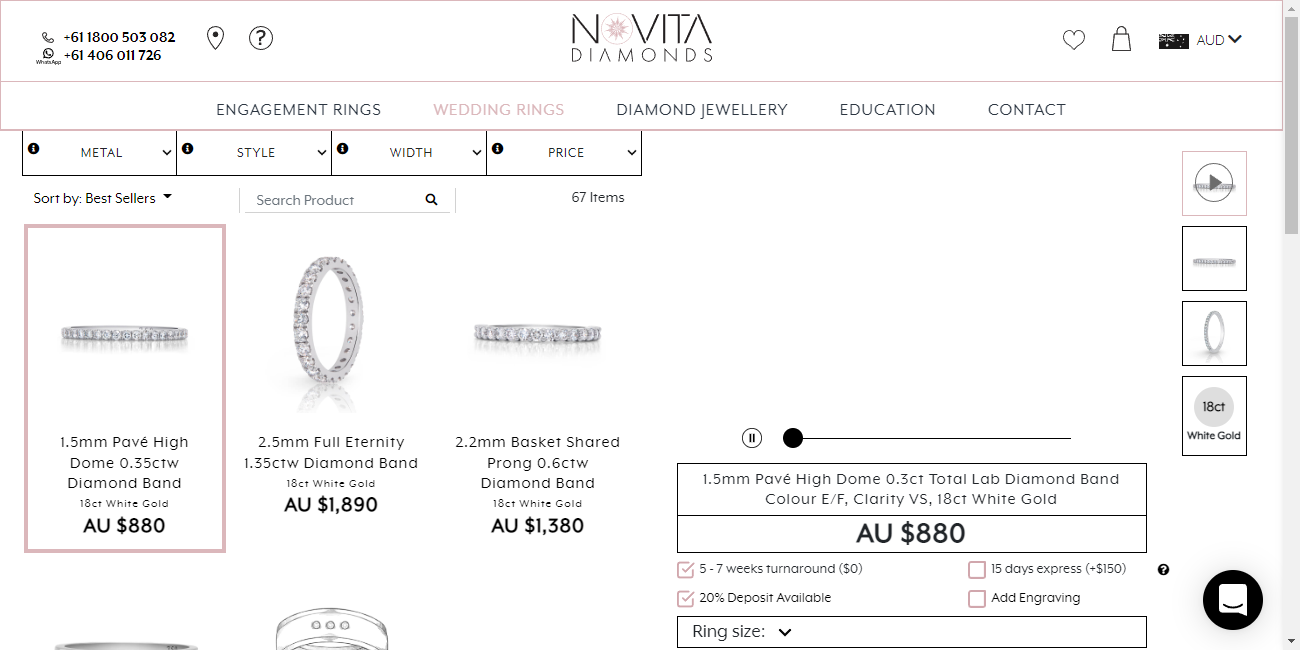
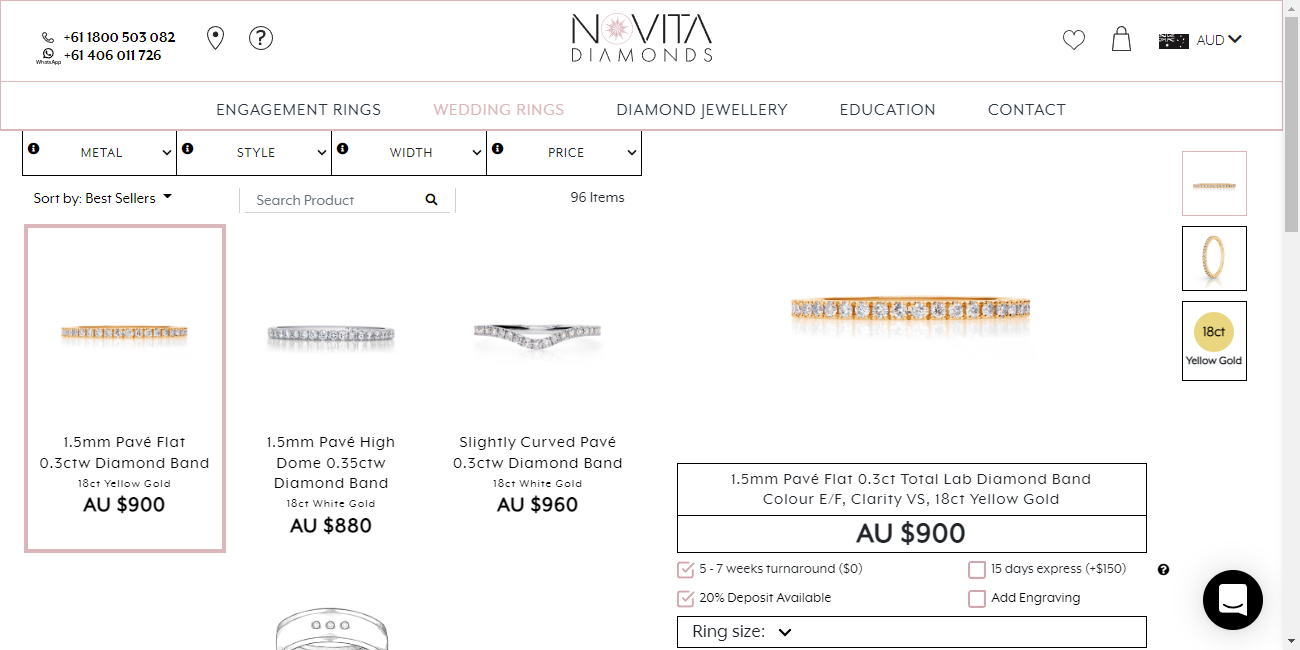
Width filter added

diff --git a/womenWeddingRings.js b/womenWeddingRings.js
@@ -15,8 +15,8 @@ Scenario('Wedding Rings', ({ I }) => {
                             return false;
                         }
                     }
-                    return true;
                 }            
+                return true;
             }
         }, 20);
     }
@@ -44,8 +44,27 @@ Scenario('Wedding Rings', ({ I }) => {
             if(res.url().includes('/api/product/wedding-bands')) {
                 results.push(await res.json());
                 if(results[0].response.total > 0) {
-                    console.log(results[0].response.items[0]);
+                    // Analize the first 10 elements from response
+                    for (let i = 0; i < 10; i++) {
+                        if(ringWidth == 'under') {
+                            if(!(results[0].response.items[i].width < 2.0)) {
+                                console.log(`Error in response, expected elements with width under 2mm not found.`);
+                                return false;
+                            }
+                        }else if(ringWidth == 'between') {
+                            if(!(results[0].response.items[i].width >= 2.0 && results[0].response.items[0].width < 2.6)) {
+                                console.log(`Error in response, expected elements with width between 2 to 2.5mm not found.`);
+                                return false;
+                            }
+                        }else if(ringWidth == 'above') {
+                            if(!(results[0].response.items[i].width >= 2.6)) {
+                                console.log(`Error in response, expected elements with width above 2.6mm not found.`);
+                                return false;
+                            }
+                        }
+                    }
                 }
+                return true;
             }
         }, 20);
     }
@@ -57,80 +76,96 @@ Scenario('Wedding Rings', ({ I }) => {
 
     // ------------------------ METAL FILTER -----------------------------------
     // METAL: 18ct White Gold
-    I.say('FILTER METAL: 18ct White Gold');
-    I.forceClick('#metal_type_2');
-    I.seeCheckboxIsChecked('#metal_type_2');
-    waitResponseMetalType('18ct White Gold');
-    I.forceClick('#metal_type_2');
+    // I.say('FILTER METAL: 18ct White Gold');
+    // I.forceClick('#metal_type_2');
+    // I.seeCheckboxIsChecked('#metal_type_2');
+    // waitResponseMetalType('18ct White Gold');
+    // I.forceClick('#metal_type_2');
 
-    // FILTER METAL: 18ct Yellow Gold
-    I.say('FILTER METAL: 18ct Yellow Gold');
-    I.forceClick('#metal_type_3');
-    I.seeCheckboxIsChecked('#metal_type_3');
-    waitResponseMetalType('18ct Yellow Gold');
-    I.forceClick('#metal_type_3');
+    // // FILTER METAL: 18ct Yellow Gold
+    // I.say('FILTER METAL: 18ct Yellow Gold');
+    // I.forceClick('#metal_type_3');
+    // I.seeCheckboxIsChecked('#metal_type_3');
+    // waitResponseMetalType('18ct Yellow Gold');
+    // I.forceClick('#metal_type_3');
 
-    // FILTER METAL: 18ct Rose Gold
-    I.say('FILTER METAL: 18ct Rose Gold');
-    I.forceClick('#metal_type_4');
-    I.seeCheckboxIsChecked('#metal_type_4');
-    waitResponseMetalType('18ct Rose Gold');
-    I.forceClick('#metal_type_4');
+    // // FILTER METAL: 18ct Rose Gold
+    // I.say('FILTER METAL: 18ct Rose Gold');
+    // I.forceClick('#metal_type_4');
+    // I.seeCheckboxIsChecked('#metal_type_4');
+    // waitResponseMetalType('18ct Rose Gold');
+    // I.forceClick('#metal_type_4');
 
-    // FILTER METAL: Platinum
-    I.say('FILTER METAL: Platinum');
-    I.forceClick('#metal_type_5');
-    I.seeCheckboxIsChecked('#metal_type_5');
-    waitResponseMetalType('Platinum');
-    I.forceClick('#metal_type_5');
+    // // FILTER METAL: Platinum
+    // I.say('FILTER METAL: Platinum');
+    // I.forceClick('#metal_type_5');
+    // I.seeCheckboxIsChecked('#metal_type_5');
+    // waitResponseMetalType('Platinum');
+    // I.forceClick('#metal_type_5');
 
-    I.forceClick('#metal_type_1');
+    // I.forceClick('#metal_type_1');
 
     // ------------------------ STYLE FILTER -----------------------------------
     // Style Pave
-    I.say('STYLE PAVE');
-    I.forceClick('#jewellery_category_2');
-    I.seeCheckboxIsChecked('#jewellery_category_2');
-    waitResponseStyleRing('pave');
-    I.forceClick('#jewellery_category_2');
+    // I.say('STYLE PAVE');
+    // I.forceClick('#jewellery_category_2');
+    // I.seeCheckboxIsChecked('#jewellery_category_2');
+    // waitResponseStyleRing('pave');
+    // I.forceClick('#jewellery_category_2');
 
-    // Style Eternity
-    I.say('STYLE ETERNITY')
-    I.forceClick('#jewellery_category_3');
-    I.seeCheckboxIsChecked('#jewellery_category_3');
-    waitResponseStyleRing('eternity');
-    I.forceClick('#jewellery_category_3');
+    // // Style Eternity
+    // I.say('STYLE ETERNITY')
+    // I.forceClick('#jewellery_category_3');
+    // I.seeCheckboxIsChecked('#jewellery_category_3');
+    // waitResponseStyleRing('eternity');
+    // I.forceClick('#jewellery_category_3');
 
-    // Style Plain
-    I.say('STYLE PLAIN')
-    I.forceClick('#jewellery_category_4');
-    I.seeCheckboxIsChecked('#jewellery_category_4');
-    waitResponseStyleRing('plain');
-    I.forceClick('#jewellery_category_4');
+    // // Style Plain
+    // I.say('STYLE PLAIN')
+    // I.forceClick('#jewellery_category_4');
+    // I.seeCheckboxIsChecked('#jewellery_category_4');
+    // waitResponseStyleRing('plain');
+    // I.forceClick('#jewellery_category_4');
 
-    // Style Modern
-    I.say('STYLE MODERN')
-    I.forceClick('#jewellery_category_5');
-    I.seeCheckboxIsChecked('#jewellery_category_5');
-    waitResponseStyleRing('modern');
-    I.forceClick('#jewellery_category_5');
+    // // Style Modern
+    // I.say('STYLE MODERN')
+    // I.forceClick('#jewellery_category_5');
+    // I.seeCheckboxIsChecked('#jewellery_category_5');
+    // waitResponseStyleRing('modern');
+    // I.forceClick('#jewellery_category_5');
     
-    // Style Vintage
-    I.say('STYLE VINTAGE')
-    I.forceClick('#jewellery_category_6');
-    I.seeCheckboxIsChecked('#jewellery_category_6');
-    waitResponseStyleRing('vintage');
-    I.forceClick('#jewellery_category_6');
+    // // Style Vintage
+    // I.say('STYLE VINTAGE')
+    // I.forceClick('#jewellery_category_6');
+    // I.seeCheckboxIsChecked('#jewellery_category_6');
+    // waitResponseStyleRing('vintage');
+    // I.forceClick('#jewellery_category_6');
 
-    I.forceClick('#jewellery_category_1');
+    // I.forceClick('#jewellery_category_1');
 
     // ------------------------ WIDTH FILTER -----------------------------------
     // Width under 2mm
     I.say('WIDTH UNDER 2MM')
     I.forceClick('#jewellery_width_range_2');
     I.seeCheckboxIsChecked('#jewellery_width_range_2');
-    waitResponseRingWidth();
+    waitResponseRingWidth('under');
+    I.forceClick('#jewellery_width_range_2');
 
+    // Width between 2 to 2.5mm
+    I.say('WIDTH BETWEEN 2 TO 2.5MM')
+    I.forceClick('#jewellery_width_range_3');
+    I.seeCheckboxIsChecked('#jewellery_width_range_3');
+    waitResponseRingWidth('between');
+    I.forceClick('#jewellery_width_range_3');
+
+    // Width above 2.6mm
+    I.say('WIDTH ABOVE 2.6MM')
+    I.forceClick('#jewellery_width_range_4');
+    I.seeCheckboxIsChecked('#jewellery_width_range_4');
+    waitResponseRingWidth('above');
+    I.forceClick('#jewellery_width_range_4');
+
+    I.forceClick('#jewellery_width_range_1');
     pause();
 
 });
